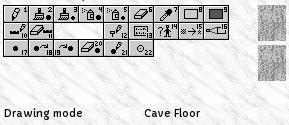
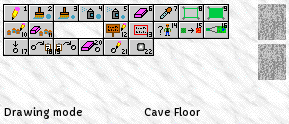
Colourful editor buttons and two new terrain graphics by ADoS

diff --git a/rsrc/graphics.exd/mac/CREDITS.md b/rsrc/graphics.exd/mac/CREDITS.md
@@ -53,26 +53,36 @@ rearranged a little:
 In fields.png, the first four graphics were created by ADoS.
 The rest are original BoE graphics.
 
+The buttons in edbuttons.png were created by ADoS. Some were based on original BoE
+buttons, some were based on buttons by Celtic Minstrel (some of which were themselves
+based on original BoE buttons), and some are original. The tiny icons are either original
+BoE or created by Celtic Minstrel (some based on the originals).
+
 Some sheets are entirely original:
 
 - dlogscroll.png created by Jewels (pressed versions made by Celtic Minstrel)
 
-For terrain graphics, most are original BoE graphics, except for the following:
+For terrain graphics, most are original BoE graphics, except for the following (some of
+which are based on original BoE graphics):
 
 - On ter5.png, graphics 20-23 and 33 are by Mistb0rn. Graphics 18, 19, 25 are by ADoS.
 Graphics 24 and 46-49 were monster graphics in original BoE.
 - ter6.png is entirely by Mistb0rn.
-- ter7.png is by Mistb0rn, except the small trees (54 and 46) which are by Celtic Minstrel.
-- On ter8.png, graphics 0, 1, 5, 6, 10, 11, 15, 16 are by Celtic Minstrel; 48 and 49 are by
-Wyrmfire; and the rest are by Mistb0rn.
+- ter7.png is by Mistb0rn, except the small trees (54 and 46) which are by Celtic
+Minstrel.
+- On ter8.png, graphics 0, 1, 5, 6, 10, 11, 15, 16 are by Celtic Minstrel; 48 and 49 are
+by
+Wyrmfire; 18 and 19 are by ADoS; and the rest are by Mistb0rn.
 - ter9.png is entirely by Wyrmfire.
-- On ter10.png, graphics 0-5, 8-19 are by Wyrmfire, and the rest are by Mistb0rn (but based
+- On ter10.png, graphics 0-5, 8-19 are by Wyrmfire, and the rest are by Mistb0rn (but
+based
 on Wyrmfire's graphics).
 - On ter11.png, graphics 0-22 are by Mistb0rn.
 - On teranim.png, graphic 15 is by Mistb0rn and graphic 16 is by Wyrmfire.
 - termap.png currently just contains directly shrunken versions of the other sheets.
 
-For monster graphics, most are original BoE graphics, except for the following:
+For monster graphics, most are original BoE graphics, except for the following (some of
+which are based on original BoE graphics):
 
 - The last graphic in monst5.png (the statue) is adapted from Exile III (though BoE had a
 nearly-identical one).
@@ -88,5 +98,6 @@ For item graphics, most are original BoE graphics, except for the following:
 startanim.png has been heavily modified with new text, but the actual pictures in it are
 still all original BoE graphics.
 
-In staticons.png, the last three rows (except the blue M shield) are from Blades of Avernum.
+In staticons.png, the last three rows (except the blue M shield) are from Blades of
+Avernum.
 The rest are original BoE graphics.
